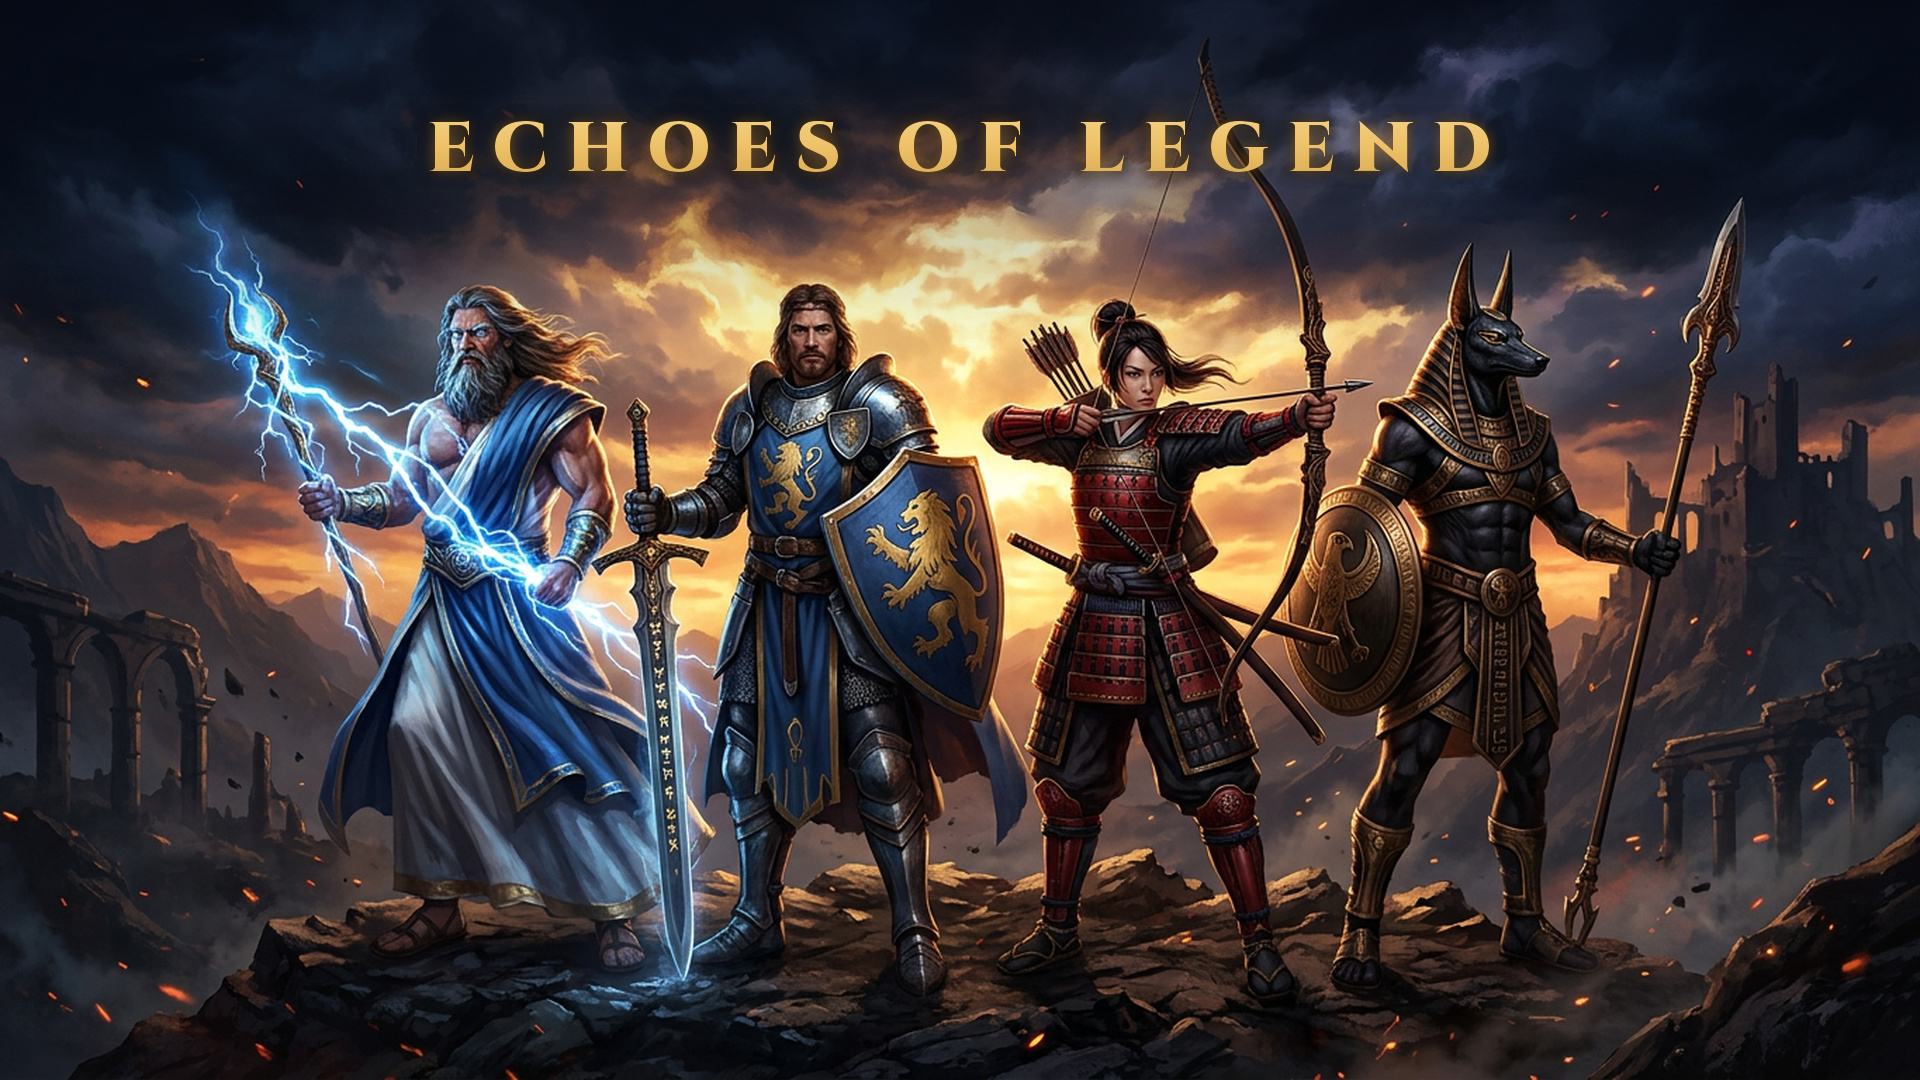
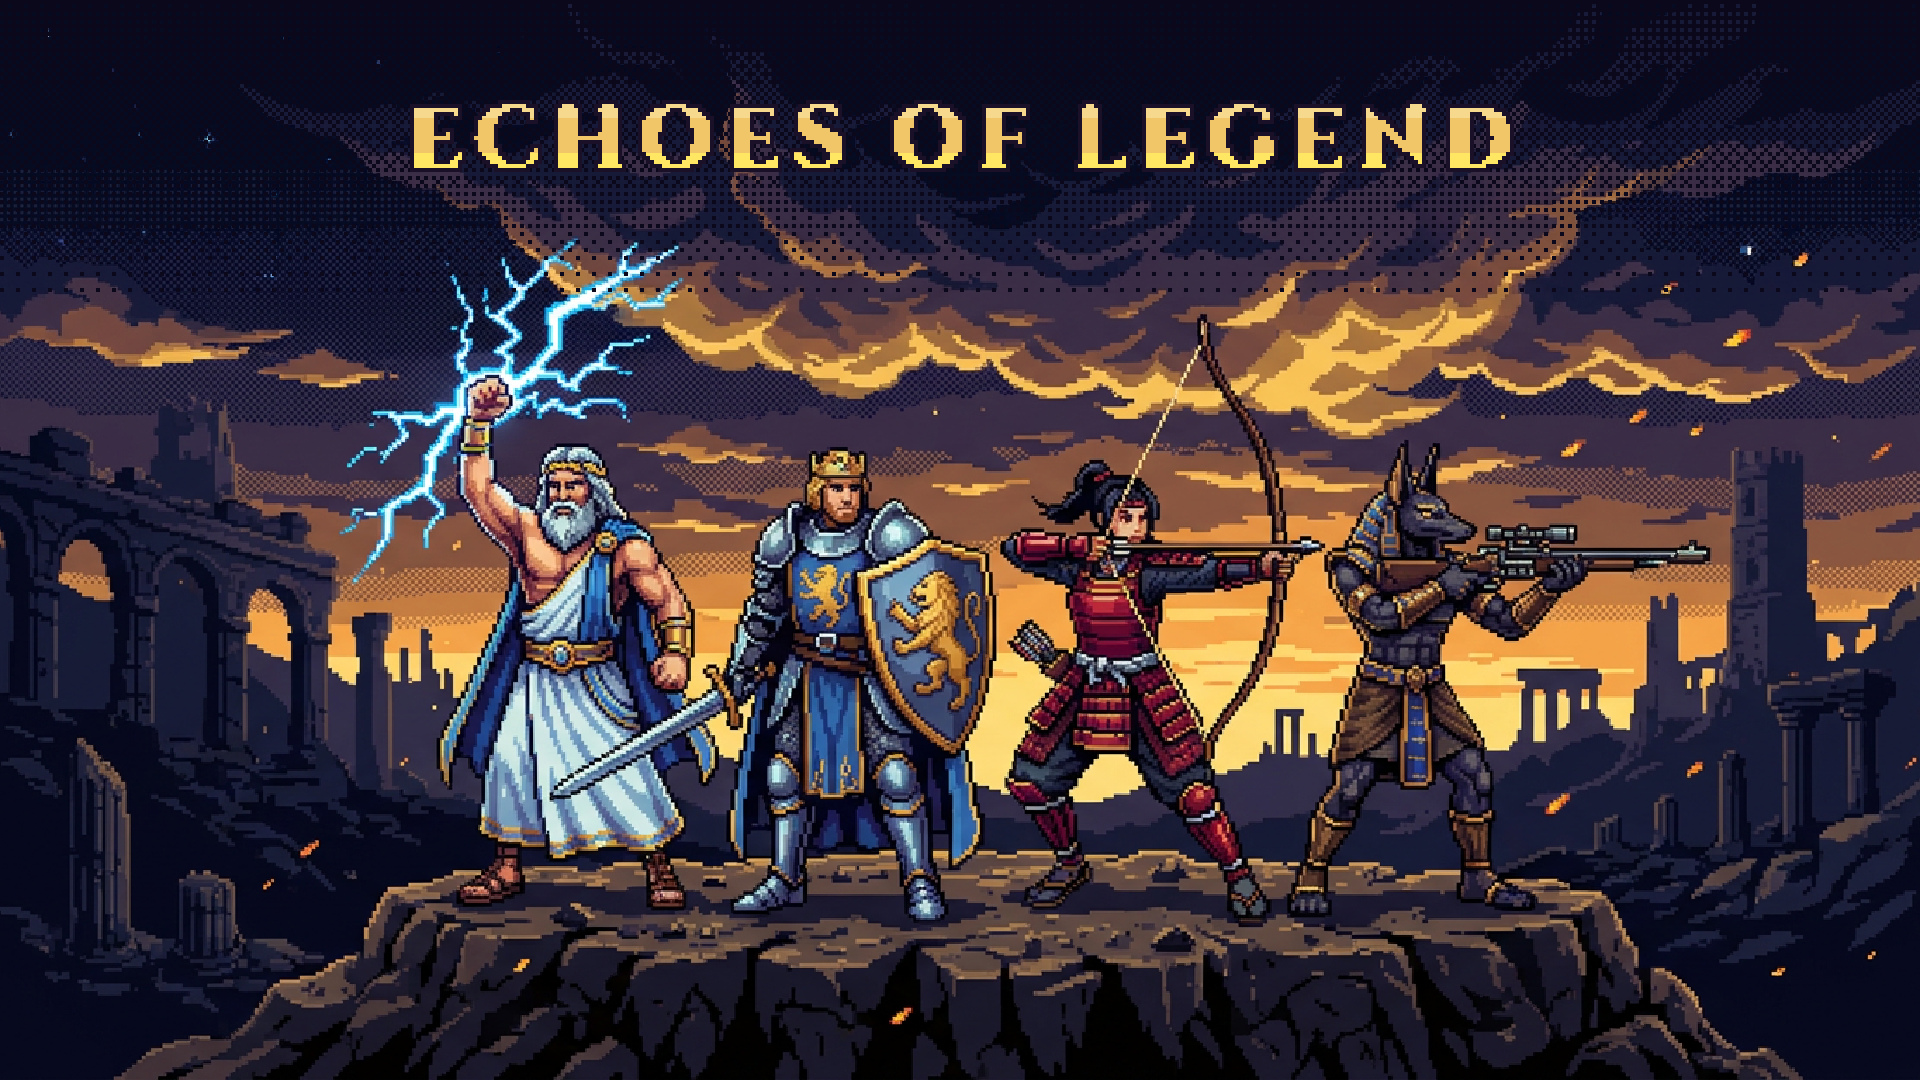
fix: covers are pixel art, and Anubis carries his rifle
The first set was smooth painted illustration. The game is 16-bit pixel
art - docs/ART-SPEC.md is explicit about it ("flat colour fills,
deliberate blocky shading, hard shadow terminators, no anti-aliasing")
and the shipped cards are 64x88 PNGs in exactly that style. A painted
cover would have promised a game that does not exist, which is a
misleading-store-asset problem as much as an aesthetic one.

Regenerated all three as pixel art in the house style, and gave the
title the same treatment rather than dropping vector type onto it: the
glyph mask is snapped to a pixel grid and hard-thresholded so the
letterforms are genuinely blocky, the outline is a whole-pixel dilation,
and the scrim behind it is Bayer-dithered instead of a smooth alpha
ramp. Still Cinzel, so it stays the game's own typeface.

Anubis now carries a scoped rifle. His role in data/duat.js is Sniper -
"Weighing of the Heart" is an execute - and the shipped card art shows
the rifle. Arming him with a spear was wrong about the character.

Sources deleted after compositing; only the three deliverables remain.

diff --git a/covers/SUBMISSION.md b/covers/SUBMISSION.md
@@ -13,10 +13,18 @@ this folder.
 | Portrait 2:3 | `cover-800x1200.jpg` | 800×1200 |
 | Square 1:1 | `cover-800x800.jpg` | 800×800 |
 
-All three share the same four legends, palette and Cinzel title (the
-game's own display font), so they read as one set. They carry the game
-title and nothing else — no "Play now", no borders, no store icons,
-no screenshots — per the cover restrictions.
+All three are **16-bit pixel art**, matching the game's own card art
+(`docs/ART-SPEC.md` §2: flat fills, hard blocky shading, selective dark
+outline, no anti-aliasing). The title is Cinzel — the game's display
+font — snapped to a pixel grid and hard-thresholded so the type is
+blocky rather than smooth, with a chunky dilated outline and a
+Bayer-dithered scrim behind it.
+
+Anubis carries his **scoped rifle**: his role in `data/duat.js` is
+literally `Sniper`, and the shipped card art shows the rifle.
+
+They carry the game title and nothing else — no "Play now", no borders,
+no store icons, no raw screenshots — per the cover restrictions.
 
 ---
 
